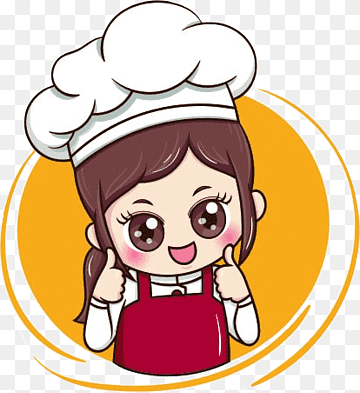
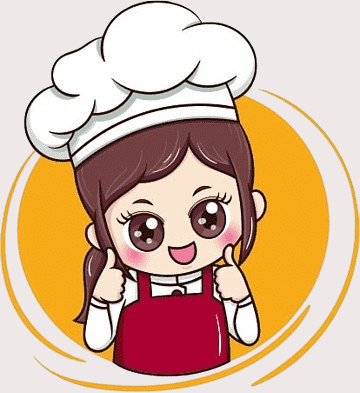
more update on image

diff --git a/lib/views/start.dart b/lib/views/start.dart
@@ -27,20 +27,45 @@ class StartPage extends StatelessWidget {
           children: [
             // Add the image widget here
             Image.asset(
-              'images/Chef.png', // Replace 'your_image.png' with the actual path to your image asset
-              height: 410, // Adjust the height of the image as needed
-              width: double.infinity, // Make the image take the full width of the screen
-              fit: BoxFit.cover, // Adjust the BoxFit property based on your image requirements
+              'images/Chef.png', 
+              height: 350, 
+              width: double.infinity,  
+              fit: BoxFit.fitHeight,  
             ),
             SizedBox(height: 20),
-            Text(
+            Container(
+                decoration: BoxDecoration(
+                    border: Border.all(
+                      color: Colors.orange, // Set the border color
+                     width: 2.0, // Set the border width
+                   ),
+                    borderRadius: BorderRadius.circular(8.0), // Set border radius as needed
+         ),
+          child: Padding(
+            padding: const EdgeInsets.all(8.0),
+            child: Text(
               'Welcome to',
               style: TextStyle(fontSize: 24, color: Colors.orange, fontWeight: FontWeight.bold),
+              ),
+          ),
             ),
-            Text(
-              'Nom Nom!',
-              style: TextStyle(fontSize: 30, color: Colors.orange, fontWeight: FontWeight.bold),
+          SizedBox(height: 3), // Add some spacing between the two Text widgets
+          Container(
+            decoration: BoxDecoration(
+              border: Border.all(
+                color: Colors.orange, // Set the border color
+                width: 2.0, // Set the border width
+              ),
+              borderRadius: BorderRadius.circular(8.0), // Set border radius as needed
             ),
+            child: Padding(
+              padding: const EdgeInsets.all(8.0),
+              child: Text(
+                'Nom Nom!',
+                 style: TextStyle(fontSize: 30, color: Colors.orange, fontWeight: FontWeight.bold),
+             ),
+            ),
+          ),
             SizedBox(height: 20),
             Padding(
               padding: const EdgeInsets.all(16.0),
